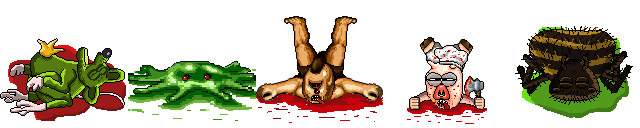
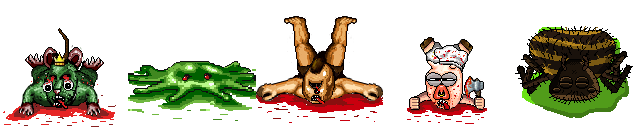
ADD New art for the Wererat King

Changed region(s): [[0.0, 0.25, 0.2188, 0.9688]]

diff --git a/src/KingRatEntity.cpp b/src/KingRatEntity.cpp
@@ -33,7 +33,7 @@ KingRatEntity::KingRatEntity(float x, float y)
   dyingSound = SOUND_KING_RAT_DIE;
   frame = 0;
   if (game().getPlayerPosition().x > x) sprite.setScale(-1.0f, 1.0f);
-  sprite.setOrigin(64.0f, 64.0f);
+  sprite.setOrigin(64.0f, 70.0f);
 
   state = 0;
   timer = 2.0f + (rand() % 40) / 10.0f;
@@ -243,7 +243,7 @@ void KingRatEntity::animate(float delay)
     else if (r == 3) frame = 2;
   }
 
-  z = y + 52;
+  z = y + 48;
 }
 
 int KingRatEntity::hurt(int damages, enumShotType hurtingType, int level, bool critical, sourceTypeEnum sourceType, enemyTypeEnum enemyType)
@@ -258,10 +258,10 @@ int KingRatEntity::hurt(int damages, enumShotType hurtingType, int level, bool c
 
 void KingRatEntity::calculateBB()
 {
-  boundingBox.left = (int)x - width / 2 + 25;
-  boundingBox.width = width - 50;
-  boundingBox.top = (int)y - height / 2 + 25;
-  boundingBox.height =  height - 35;
+  boundingBox.left = (int)x - 35;
+  boundingBox.width = 70;
+  boundingBox.top = (int)y - 15;
+  boundingBox.height =  63;
 }
 
 
